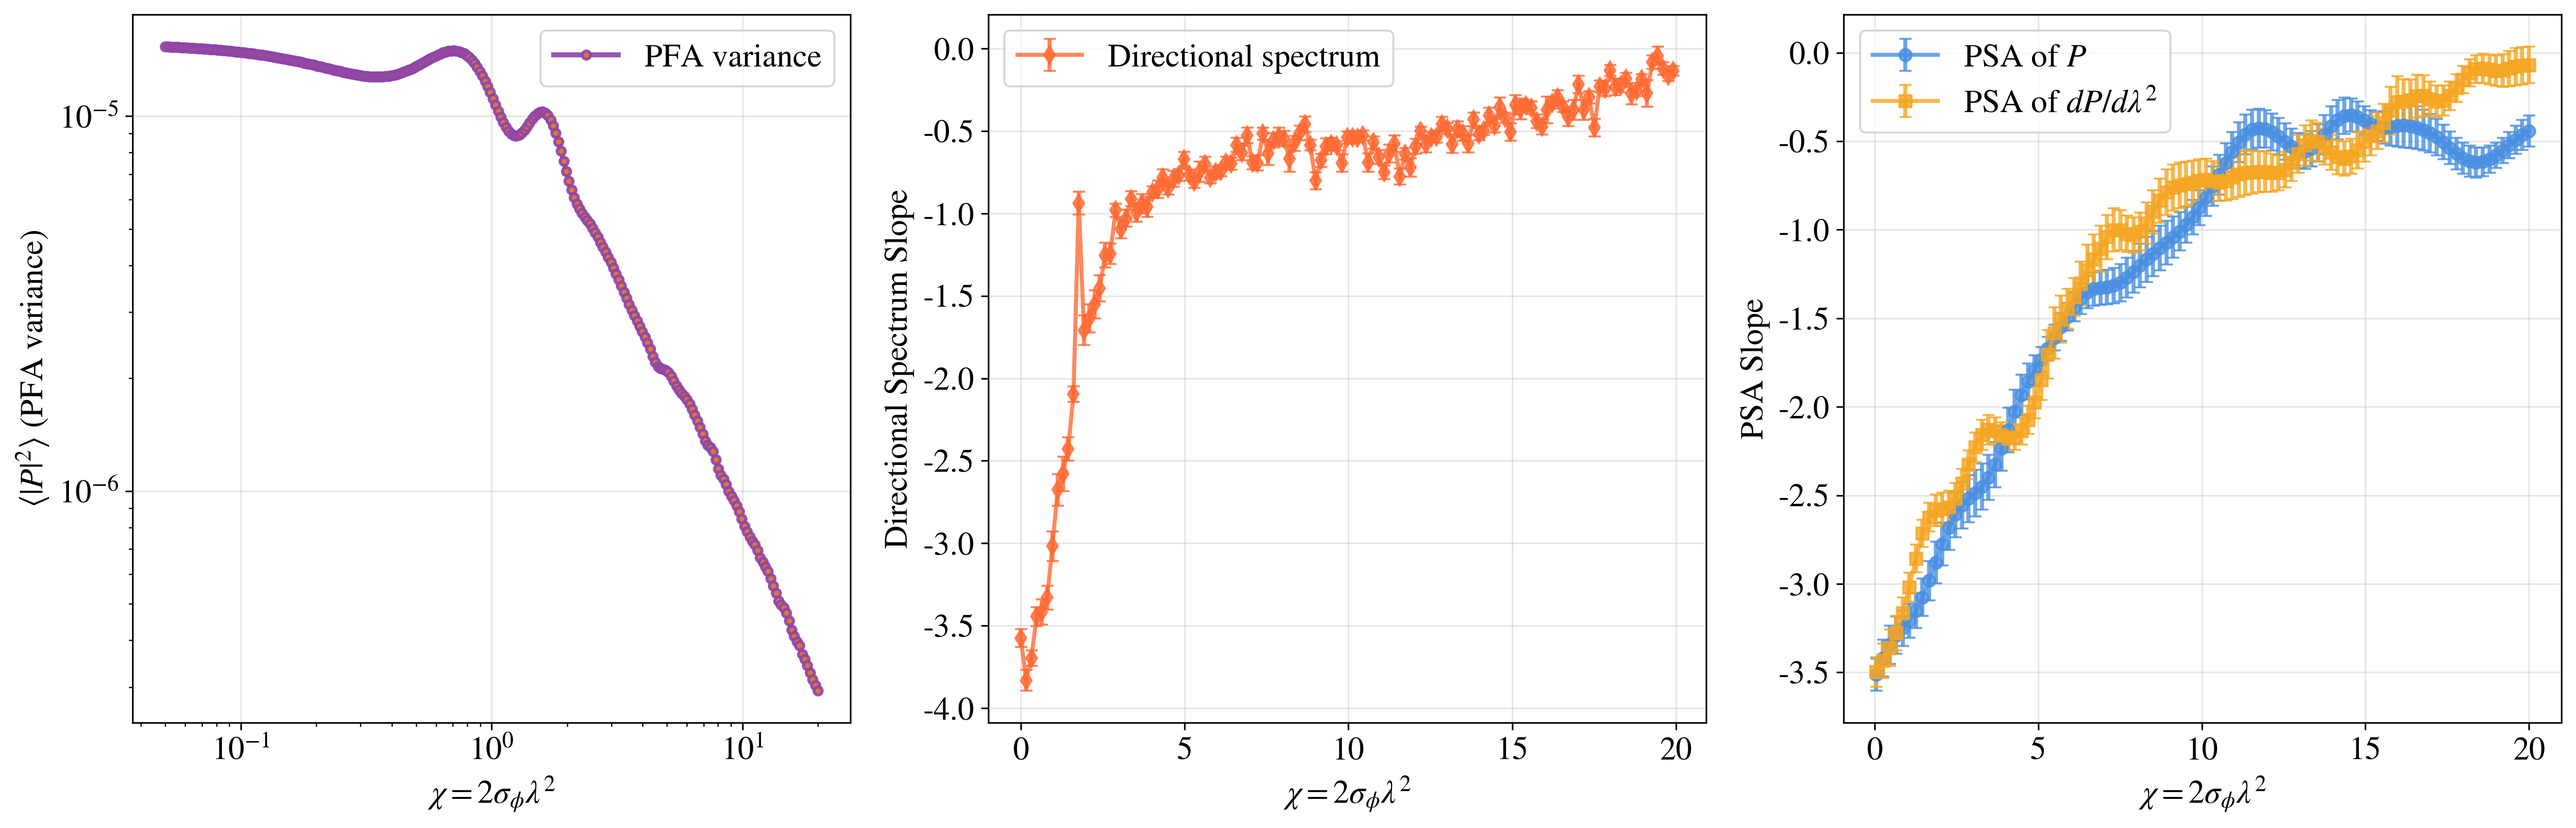
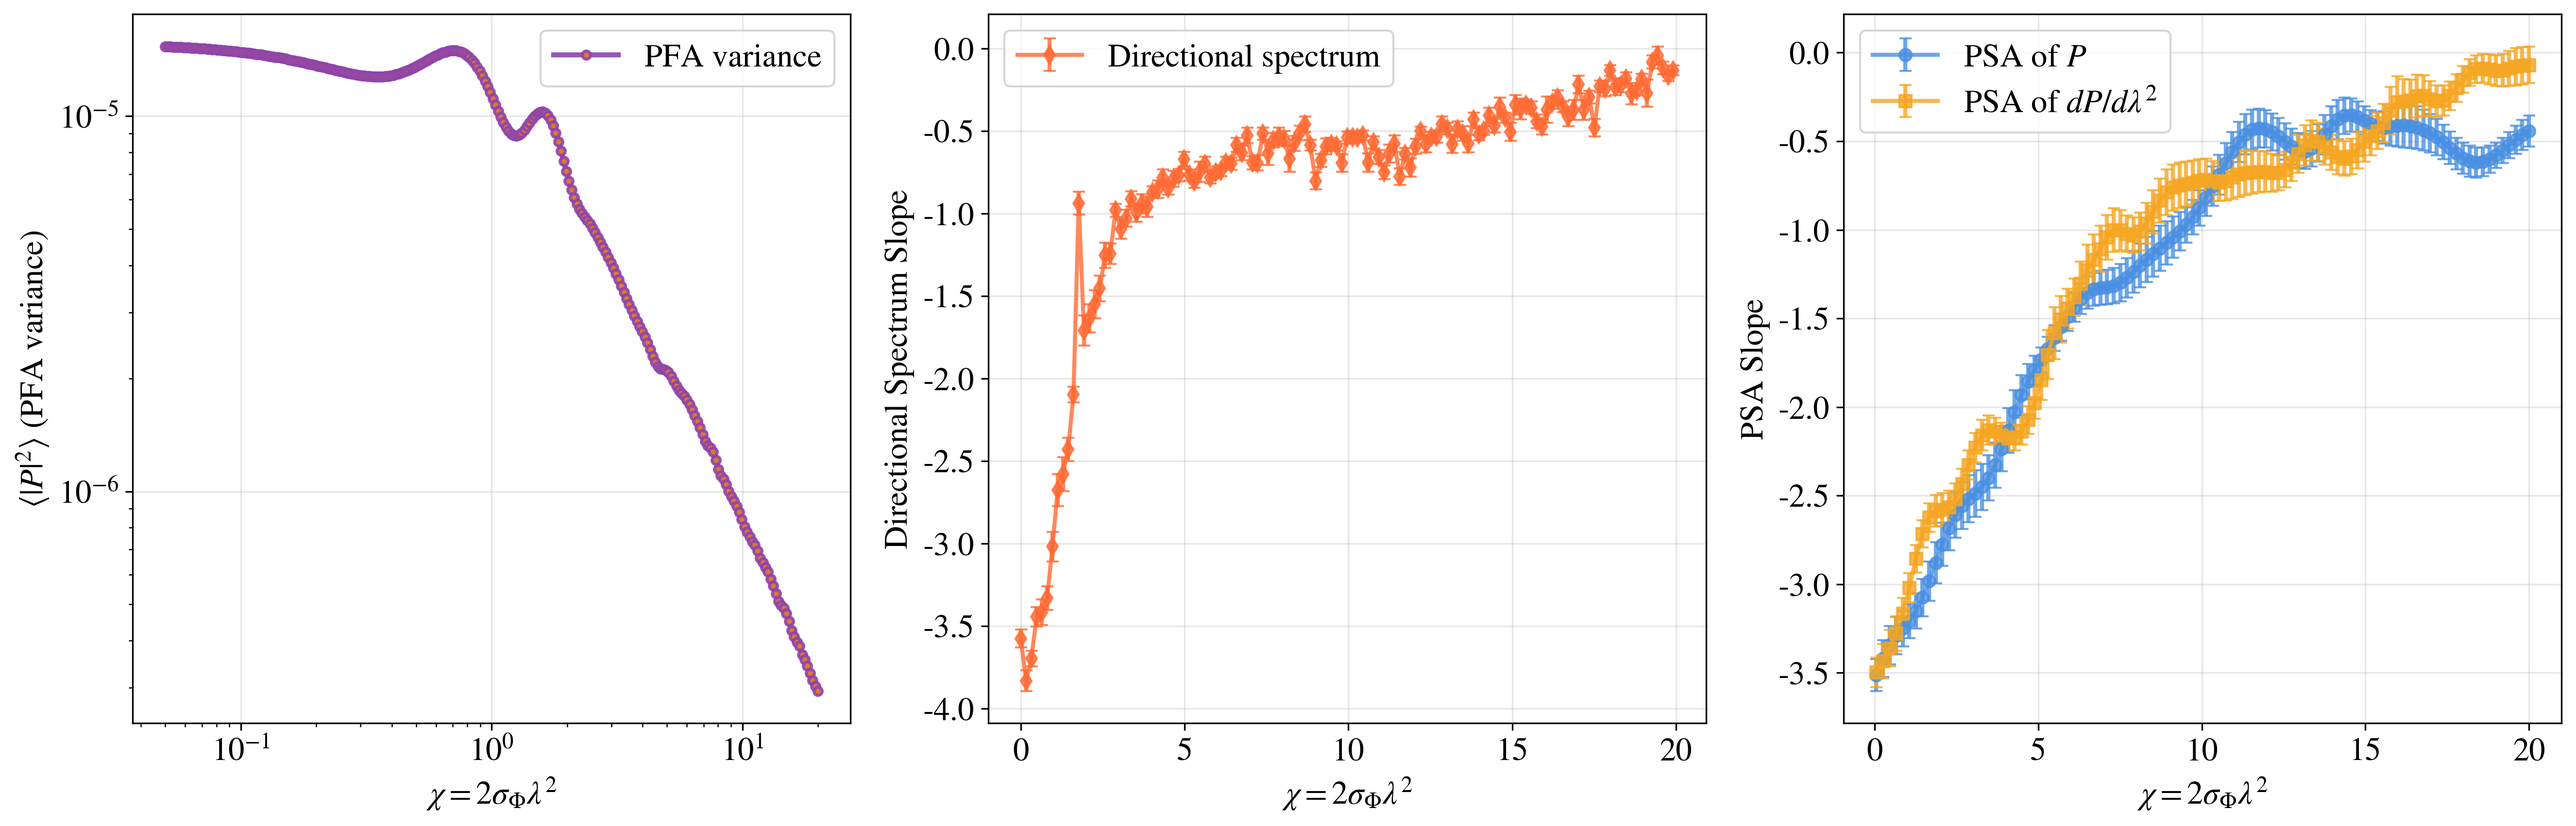
\sigma_\Phi label fix

diff --git a/compare_measures/pfa_and_derivative_lp_16_like.py b/compare_measures/pfa_and_derivative_lp_16_like.py
@@ -886,19 +886,28 @@ def dir_slopes_vs_lambda(Pi: np.ndarray,
     return lam_arr, np.array(mDir), np.array(eDir)
 
 def plot_dir_slopes_vs_lambda(lam_arr: np.ndarray,
-                              mDir: np.ndarray, eDir: np.ndarray,
-                              x_is_lambda2: bool = True,
-                              title: Optional[str] = None,
-                              label: str = r"Directional $|\widehat{\cos2\chi}|^2+|\widehat{\sin2\chi}|^2$ slope"):
-    x = lam_arr**2 if x_is_lambda2 else lam_arr
-    xlab = r"$\lambda^2$" if x_is_lambda2 else r"$\lambda$"
-    ttl = title or (r"Directional-spectrum slope" if x_is_lambda2 else r"Directional-spectrum slope vs $\lambda$")
+                             mDir: np.ndarray, eDir: np.ndarray,
+                             x_is_lambda2: bool = True,
+                             title: Optional[str] = None,
+                             label: str = r"Directional $|\widehat{\cos2\chi}|^2+|\widehat{\sin2\chi}|^2$ slope",
+                             sigma_phi: Optional[float] = None):
+    # X-axis: either λ²/λ or χ=2σ_φ λ² if sigma_phi is provided
+    if sigma_phi is not None:
+        x = 2.0 * (lam_arr**2) * float(sigma_phi)
+        xlab = r"$2\,\sigma_\phi\,\lambda^2$"
+        # Mask to 0 < χ < 20 as requested
+        mask = np.isfinite(x) & (x > 0) & (x < 20)
+    else:
+        x = lam_arr**2 if x_is_lambda2 else lam_arr
+        xlab = r"$\lambda^2$" if x_is_lambda2 else r"$\lambda$"
+        mask = np.isfinite(x)
+    ttl = title or (r"Directional-spectrum slope" if x_is_lambda2 else r"Directional-spectrum slope vs $\\lambda$")
     plt.figure(figsize=(7.2, 5.0))
     if np.any(np.isfinite(eDir)):
-        ok = np.isfinite(mDir)
+        ok = np.isfinite(mDir) & mask
         plt.errorbar(x[ok], mDir[ok], yerr=eDir[ok], fmt='d-', capsize=3, label=label)
     else:
-        plt.plot(x, mDir, 'd-', label=label)
+        plt.plot(x[mask], mDir[mask], 'd-', label=label)
     plt.axhline(0, color='k', lw=0.6, alpha=0.4)
     plt.xlabel(f"{xlab} (arb. units)")
     plt.ylabel(r"slope $m$ in $P_{\rm dir}(k)\propto k^{\,m}$")
@@ -954,18 +963,27 @@ def psa_slopes_vs_lambda(Pi: np.ndarray,
 
 
 def plot_psa_slopes_vs_lambda(lam_arr: np.ndarray,
-                              mP: np.ndarray, eP: np.ndarray,
-                              mD: np.ndarray, eD: np.ndarray,
-                              x_is_lambda2: bool = True,
-                              title: Optional[str] = None,
-                              label_P: str = r"PSA slope of $P$",
-                              label_D: str = r"PSA slope of $\partial P/\partial\lambda^2$"):
+                             mP: np.ndarray, eP: np.ndarray,
+                             mD: np.ndarray, eD: np.ndarray,
+                             x_is_lambda2: bool = True,
+                             title: Optional[str] = None,
+                             label_P: str = r"PSA slope of $P$",
+                             label_D: str = r"PSA slope of $\\partial P/\\partial\\lambda^2$",
+                             sigma_phi: Optional[float] = None):
     """
-    Plot the fitted PSA slopes for P and dP/dλ² as a function of λ (or λ²) on one figure.
+    Plot the fitted PSA slopes for P and dP/dλ² as a function of χ=2σ_φλ² if sigma_phi is provided,
+    otherwise as a function of λ² (or λ).
     """
-    x = lam_arr**2 if x_is_lambda2 else lam_arr
-    xlab = r"$\lambda^2$" if x_is_lambda2 else r"$\lambda$"
-    ttl = title or (r"PSA slopes" if x_is_lambda2 else r"PSA slopes vs $\lambda$")
+    if sigma_phi is not None:
+        print("SIGMA_PHI", sigma_phi)
+        x = 2.0 * (lam_arr**2) * float(sigma_phi)
+        xlab = r"$2\,\sigma_\phi\,\lambda^2$"
+        mask = np.isfinite(x) & (x > 0) & (x < 20)
+    else:
+        x = lam_arr**2 if x_is_lambda2 else lam_arr
+        xlab = r"$\lambda^2$" if x_is_lambda2 else r"$\lambda$"
+        mask = np.isfinite(x)
+    ttl = title or (r"PSA slopes" if x_is_lambda2 else r"PSA slopes vs $\\lambda$")
 
     plt.figure(figsize=(7.2, 5.0))
     # Use error bars if available; fall back to lines if NaNs
@@ -973,14 +991,14 @@ def plot_psa_slopes_vs_lambda(lam_arr: np.ndarray,
     okD = np.isfinite(mD)
 
     if np.any(np.isfinite(eP)):
-        plt.errorbar(x[okP], mP[okP], yerr=eP[okP], fmt='o-', capsize=3, label=label_P)
+        plt.errorbar(x[okP & mask], mP[okP & mask], yerr=eP[okP & mask], fmt='o-', capsize=3, label=label_P)
     else:
-        plt.plot(x[okP], mP[okP], 'o-', label=label_P)
+        plt.plot(x[okP & mask], mP[okP & mask], 'o-', label=label_P)
 
     if np.any(np.isfinite(eD)):
-        plt.errorbar(x[okD], mD[okD], yerr=eD[okD], fmt='s-', capsize=3, label=label_D)
+        plt.errorbar(x[okD & mask], mD[okD & mask], yerr=eD[okD & mask], fmt='s-', capsize=3, label=label_D)
     else:
-        plt.plot(x[okD], mD[okD], 's-', label=label_D)
+        plt.plot(x[okD & mask], mD[okD & mask], 's-', label=label_D)
 
     plt.axhline(0, color='k', lw=0.6, alpha=0.4)
     plt.xlabel(f"{xlab} (arb. units)")
@@ -1044,7 +1062,7 @@ def plot_three_measures_vs_lambda(lam2_pfa: np.ndarray,
     y_pfa_plot = np.log10(y_pfa)
     
     # Compute χ(λ) for annotation
-    chi = 2.0 * lam_arr_psa**2 * sigma_phi
+    chi = 2.0 * (lam_arr_psa[mask_psa]**2) * sigma_phi
 
     # Print plateau diagnostics
     print(f"\n[Plateau diagnostics] {title}:")
@@ -1186,7 +1204,7 @@ def run(h5_path: str, force_random_dominated: bool = False, decorrelate: bool = 
     print("LP16 PFA + DERIVATIVE ANALYSIS")
 
     Bx, By, Bz, ne = load_fields(h5_path, keys)
-    Pi = polarized_emissivity(Bx, By, gamma=cfg.gamma)
+    Pi = polarized_emissivity_lp16(Bx, By, gamma=cfg.gamma)
     
     # Choose B_parallel based on cfg.los_axis (corrected mapping)
     if cfg.los_axis == 0:
@@ -1258,7 +1276,7 @@ def run(h5_path: str, force_random_dominated: bool = False, decorrelate: bool = 
         use_multiprocessing = False
     elif len(cfg.lam_grid) > 50:  # Large grid might cause memory issues
         print("⚠ Large λ-grid detected, using sequential computation to avoid memory issues")
-        use_multiprocessing = False
+        use_multiprocessing = True#False
 
     # ========================================
     # Combined three-measures plot only

diff --git a/compare_measures/reproduce_directional_spectrum.py b/compare_measures/reproduce_directional_spectrum.py
@@ -152,7 +152,7 @@ def reproduce_directional_sweep_plot(npz_path: str, output_path: str = None):
     plt.figure(figsize=(10, 6))
     plt.errorbar(chi_values, slopes_dir, yerr=errors_dir, fmt='d-', capsize=3, 
                  label=f'Directional spectrum ({geometry})', color='#FF6B35', linewidth=2, alpha=0.8)
-    plt.xlabel('$\\chi = 2\\sigma_\\phi \\lambda^2$')
+    plt.xlabel('$\\chi = 2\\sigma_\\Phi \\lambda^2$')
     plt.ylabel('Directional Spectrum Slope')
     plt.title(f'Directional Spectrum Slope vs $\\chi$ ({geometry.capitalize()} Geometry, $\\chi \\in [0, 20]$)')
     plt.grid(True, alpha=0.3)
@@ -195,7 +195,7 @@ def reproduce_psa_slopes_plot(npz_path: str, output_path: str = None):
                  label='PSA of $P$', color='blue', alpha=0.7)
     plt.errorbar(chi_values, slopes_dP, yerr=errors_dP, fmt='s-', capsize=3, 
                  label='PSA of $dP/d\\lambda^2$', color='red', alpha=0.7)
-    plt.xlabel('$\\chi = 2\\sigma_\\phi \\lambda^2$')
+    plt.xlabel('$\\chi = 2\\sigma_\\Phi \\lambda^2$')
     plt.ylabel('PSA Slope')
     plt.title('PSA Slopes vs $\\chi$ (Mixed Geometry, Random-Dominated)')
     plt.grid(True, alpha=0.3)
@@ -245,7 +245,7 @@ def reproduce_pfa_variance_plot(npz_path: str, output_path: str = None):
     plt.figure(figsize=(10, 6))
     plt.loglog(chi_values, pfa_var, 'o-', markersize=4, alpha=0.9, 
                label='PFA variance', color='#8E44AD', linewidth=2.5, markerfacecolor='#E67E22', markeredgecolor='#8E44AD', markeredgewidth=1.5)
-    plt.xlabel('$\\chi = 2\\sigma_\\phi \\lambda^2$')
+    plt.xlabel('$\\chi = 2\\sigma_\\Phi \\lambda^2$')
     plt.ylabel('$\\langle|P|^2\\rangle$ (PFA variance)')
     plt.title('PFA Variance vs $\\chi$')
     plt.grid(True, alpha=0.3)
@@ -322,7 +322,7 @@ def create_combined_panel_plot(npz_dir: str = None):
             
             axes[0].loglog(chi_values, pfa_var, 'o-', markersize=4, alpha=0.9, 
                           label='PFA variance', color='#8E44AD', linewidth=2.5, markerfacecolor='#E67E22', markeredgecolor='#8E44AD', markeredgewidth=1.5)
-            axes[0].set_xlabel('$\\chi = 2\\sigma_\\phi \\lambda^2$')
+            axes[0].set_xlabel('$\\chi = 2\\sigma_\\Phi \\lambda^2$')
             axes[0].set_ylabel('$\\langle|P|^2\\rangle$ (PFA variance)')
             # axes[0].set_title('PFA Variance vs $\\chi$')
             axes[0].grid(True, alpha=0.3)
@@ -350,7 +350,7 @@ def create_combined_panel_plot(npz_dir: str = None):
             
             axes[1].errorbar(chi_values, slopes_dir, yerr=errors_dir, fmt='d-', capsize=3, 
                             label='Directional spectrum', color='#FF6B35', linewidth=2, alpha=0.8)
-            axes[1].set_xlabel('$\\chi = 2\\sigma_\\phi \\lambda^2$')
+            axes[1].set_xlabel('$\\chi = 2\\sigma_\\Phi \\lambda^2$')
             axes[1].set_ylabel('Directional Spectrum Slope')
             # axes[1].set_title('Directional Spectrum Slope vs $\\chi$')
             axes[1].grid(True, alpha=0.3)
@@ -380,7 +380,7 @@ def create_combined_panel_plot(npz_dir: str = None):
                             label='PSA of $P$', color='#4A90E2', linewidth=2, alpha=0.8)
             axes[2].errorbar(chi_values, slopes_dP, yerr=errors_dP, fmt='s-', capsize=3, 
                             label='PSA of $dP/d\\lambda^2$', color='#F5A623', linewidth=2, alpha=0.8)
-            axes[2].set_xlabel('$\\chi = 2\\sigma_\\phi \\lambda^2$')
+            axes[2].set_xlabel('$\\chi = 2\\sigma_\\Phi \\lambda^2$')
             axes[2].set_ylabel('PSA Slope')
             # axes[2].set_title('PSA Slopes vs $\\chi$')
             axes[2].grid(True, alpha=0.3)
